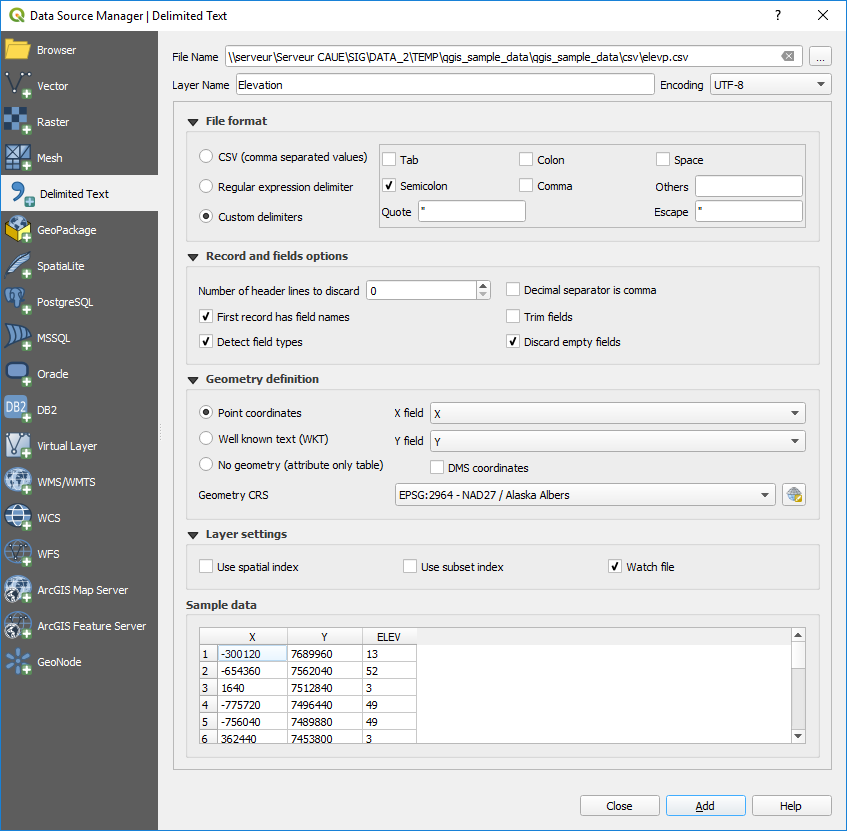
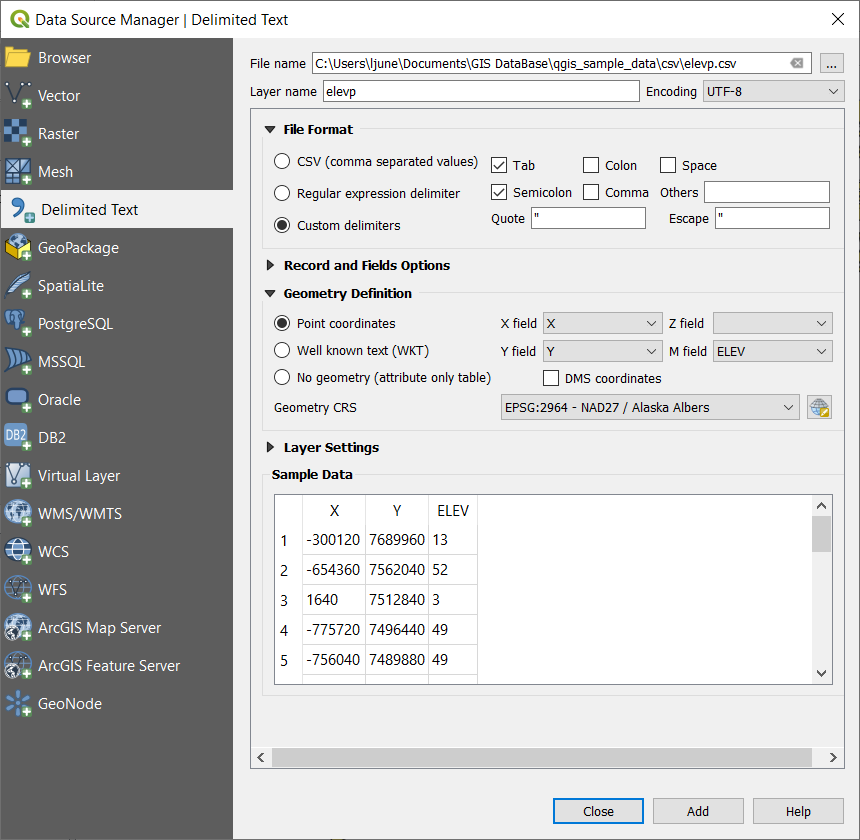
Update of section loading a delimited text file (#4652)
* update screenshot

Updates the screenshot about adding a delimited text file.

* update loading a delimited text file

It is now possible to load a delimited text file that contains x, y, z and m fields.

* update screenshot

An update of the screenshot with the appropriate file format.

* Update source/docs/user_manual/managing_data_source/opening_data.rst

* Update source/docs/user_manual/managing_data_source/opening_data.rst

* Update source/docs/user_manual/managing_data_source/opening_data.rst

* Update source/docs/user_manual/managing_data_source/opening_data.rst

* Update source/docs/user_manual/managing_data_source/opening_data.rst

Changed region(s): [[0.0, 0.0, 1.0, 1.0], [0.706, 0.6619, 0.7981, 0.6919], [0.9516, 0.0, 1.0, 0.0301]]

diff --git a/source/docs/user_manual/managing_data_source/opening_data.rst b/source/docs/user_manual/managing_data_source/opening_data.rst
@@ -336,11 +336,11 @@ Mesh layers (currently :file:`.grb`, :file:`.grb2`, :file:`.bin`, :file:`.grib`,
 Importing a delimited text file
 -------------------------------
 
-Delimited text file (e.g. :file:`.csv`, :file:`.txt`) can be loaded in QGIS
-using the tools described above. However, loaded this way, it'll show up like a
-simple table data. Sometimes, delimited text files can contain geometric data
-you'd want to visualize; this is what the |addDelimitedTextLayer|:guilabel:`Add
-Delimited Text Layer` is designed for.
+Delimited text files (e.g. :file:`.txt`, :file:`.csv`, :file:`.dat`, :file: `.wkt`) 
+can be loaded in QGIS using the tools described above. However, loaded this way,
+it'll show up like a simple table data. Sometimes, delimited text files can contain
+coordinates / geometries that you could want to visualize; this is what the
+|addDelimitedTextLayer|:guilabel:`Add Delimited Text Layer` is designed for.
 
 Click the |dataSourceManager| :sup:`Open Data Source Manager` icon to open the
 :guilabel:`Data Source Manager` dialog and enable the |addDelimitedTextLayer|
@@ -401,10 +401,11 @@ Geometry definition
 Once the file is parsed, set :guilabel:`Geometry definition` to
 
 * |radioButtonOn|:guilabel:`Point coordinates` and provide the :guilabel:`X
-  field` and :guilabel:`Y field` if the layer is of point geometry type and
-  contain such coordinate fields. If the coordinates are defined as
-  degrees/minutes/seconds, activate the |checkbox|:guilabel:`DMS coordinates`
-  checkbox;
+  field`, the :guilabel:`Y field`, :guilabel:`Z field` (for 3-dimensional data)
+  and the :guilabel:`M field` (for the measurement dimension) if the layer is of 
+  point geometry type and contains such coordinate fields. If the coordinates
+  are defined as degrees/minutes/seconds, activate the
+  |checkbox|:guilabel:`DMS coordinates` checkbox;
 * |radioButtonOn|:guilabel:`Well known text (WKT)` option if the spatial
   information is represented by WKT: select the :guilabel:`Geometry field`
   containing the WKT definition and choose the approriate :guilabel:`Geometry
